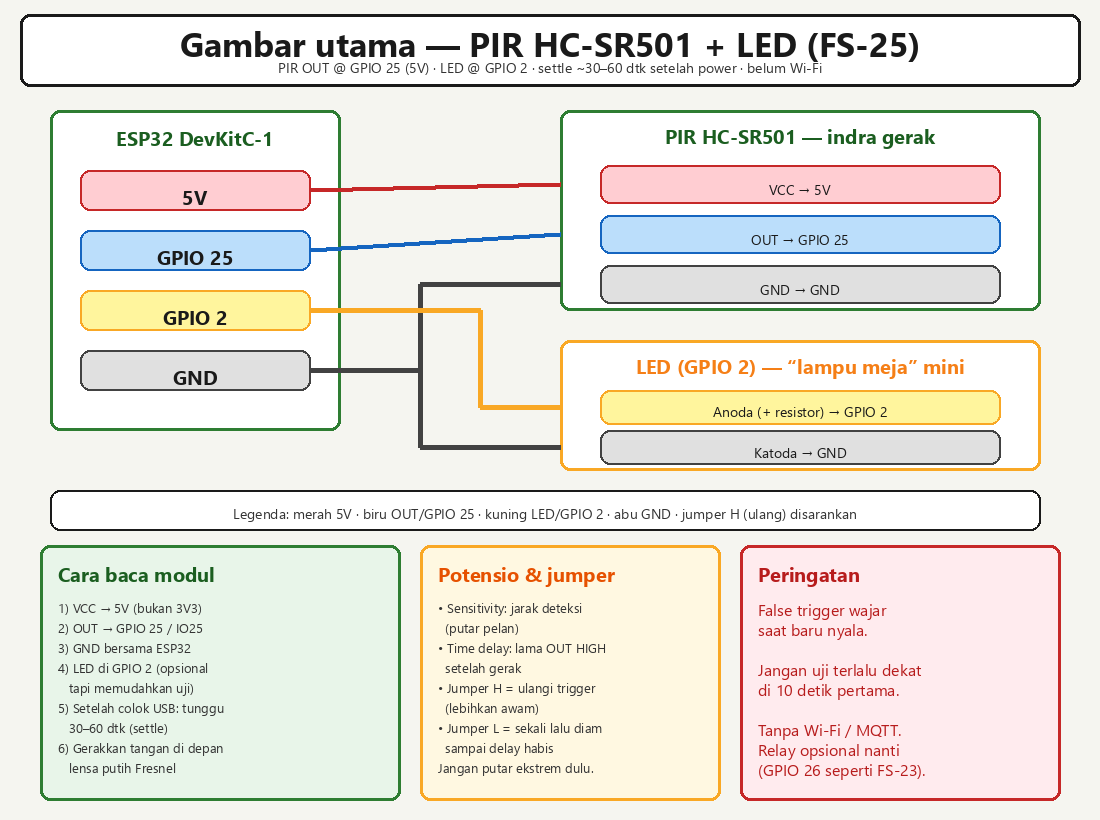
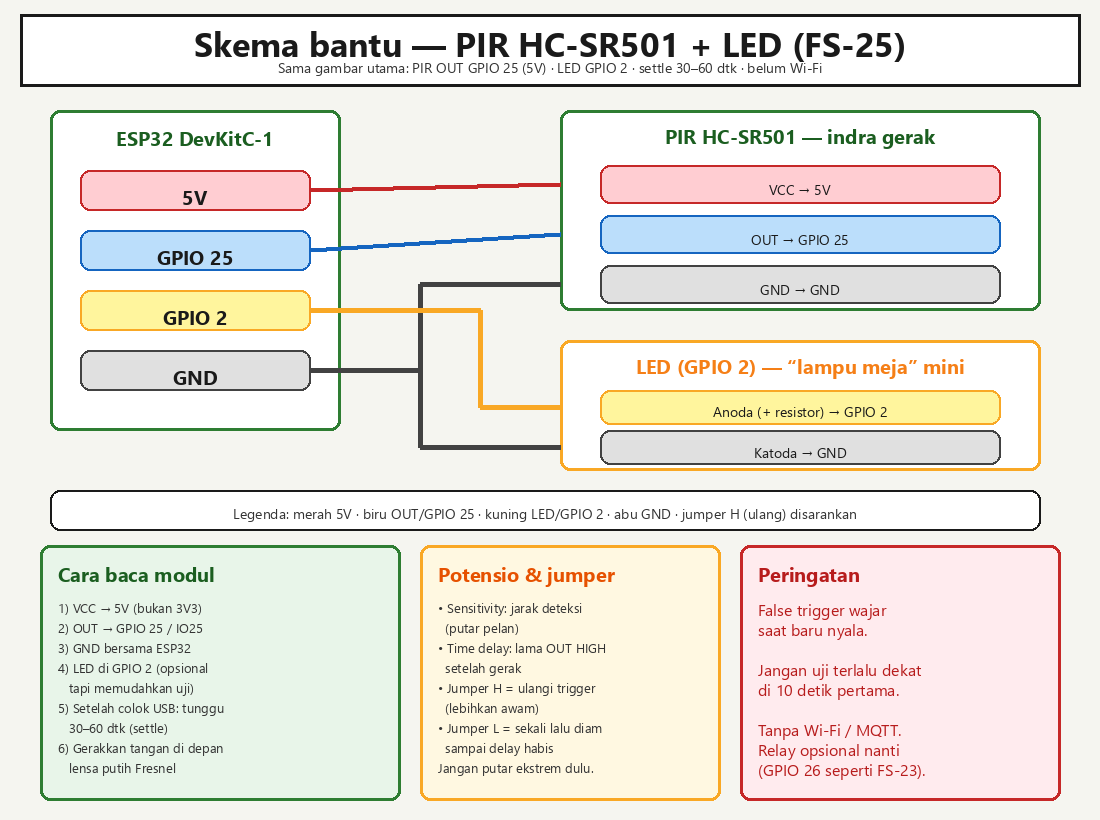
feat(fsiot): #95 gambar utama breadboard PIR dari rangkaian user
Promote user wiring photo to main figure; schematic becomes Skema bantu with matching captions and FTP allowlist.

Changed region(s): [[0.1545, 0.0305, 0.8345, 0.0915]]

diff --git a/database/seeders/Article95Seeder.php b/database/seeders/Article95Seeder.php
@@ -160,11 +160,11 @@ HTML;
     {
         return <<<'HTML'
 <figure style="margin:1.5rem 0;max-width:100%;background:#F5F5F0;border:2.5px solid #1a1a1a;border-radius:8px;padding:0.75rem 0.75rem 0.35rem">
-  <img src="/images/fsiot/fs25-pir-wiring.png" width="1100" height="820" alt="Gambar utama — wiring PIR GPIO 25 + LED GPIO 2" loading="eager" style="width:100%;height:auto;max-height:560px;object-fit:contain;border-radius:6px;background:#F5F5F0">
+  <img src="/images/fsiot/fs25-pir-breadboard.png" width="1374" height="766" alt="Gambar utama — rangkaian PIR GPIO 25 + LED GPIO 2 di breadboard" loading="eager" style="width:100%;height:auto;max-height:560px;object-fit:contain;border-radius:6px;background:#fff">
   <figcaption style="font-size:0.85rem;margin-top:0.5rem;color:#1a1a1a;">
-    <strong>Gambar utama — wiring PIR + LED.</strong> Merah: <strong>5V</strong> → VCC PIR · biru: <strong>GPIO 25</strong> → OUT · kuning: <strong>GPIO 2</strong> → LED · abu: <strong>GND</strong> bersama. LED onboard DevKit sering sudah di GPIO 2 — kalau menyala tanpa LED eksternal, itu normal.
-    <br><em>Tip:</em> setelah colok USB, tunggu <strong>30–60 detik</strong> sebelum menilai “false trigger”. Nomor kolom breadboard ≠ nomor GPIO.
-    <br>Sumber gambar: diagram berlabel buatan Koding Indonesia (FS-25).
+    <strong>Gambar utama — rangkaian PIR di breadboard.</strong> Merah: <strong>5V</strong> → VCC PIR · kuning/biru: <strong>OUT</strong> → <strong>IO25 / GPIO 25</strong> · oranye: <strong>IO2 / GPIO 2</strong> → anoda LED · hitam: <strong>GND</strong> bersama (katoda LED lewat resistor ke rail GND). Bentuk modul PIR bisa beda (lensa + kabel vs PCB 3 pin) — sambungan yang sama: VCC / OUT / GND.
+    <br><em>Tip:</em> nomor kolom breadboard ≠ nomor GPIO. Setelah colok USB, tunggu <strong>30–60 detik</strong> (settle) sebelum menilai false trigger.
+    <br>Sumber gambar: diagram rangkaian buatan Koding Indonesia (FS-25).
   </figcaption>
 </figure>
 HTML;
@@ -174,15 +174,42 @@ HTML;
     {
         return <<<'HTML'
 <figure style="margin:1.5rem 0;max-width:100%;background:#F5F5F0;border:2.5px solid #1a1a1a;border-radius:8px;padding:0.75rem 0.75rem 0.35rem">
-  <img src="/images/fsiot/fs25-pir-wiring.png" width="1100" height="820" alt="Main figure — PIR GPIO 25 + LED GPIO 2 wiring" loading="eager" style="width:100%;height:auto;max-height:560px;object-fit:contain;border-radius:6px;background:#F5F5F0">
+  <img src="/images/fsiot/fs25-pir-breadboard.png" width="1374" height="766" alt="Main figure — PIR GPIO 25 + LED GPIO 2 on a breadboard" loading="eager" style="width:100%;height:auto;max-height:560px;object-fit:contain;border-radius:6px;background:#fff">
   <figcaption style="font-size:0.85rem;margin-top:0.5rem;color:#1a1a1a;">
-    <strong>Main figure — PIR + LED wiring.</strong> Red: <strong>5V</strong> → PIR VCC · blue: <strong>GPIO 25</strong> → OUT · yellow: <strong>GPIO 2</strong> → LED · gray: shared <strong>GND</strong>. Many DevKits already have an onboard LED on GPIO 2 — if it lights without an external LED, that is normal.
-    <br><em>Tip:</em> after plugging USB in, wait <strong>30–60 seconds</strong> before judging “false triggers”. Breadboard column numbers ≠ GPIO numbers.
+    <strong>Main figure — PIR circuit on a breadboard.</strong> Red: <strong>5V</strong> → PIR VCC · yellow/blue: <strong>OUT</strong> → <strong>IO25 / GPIO 25</strong> · orange: <strong>IO2 / GPIO 2</strong> → LED anode · black: shared <strong>GND</strong> (LED cathode via resistor to the GND rail). PIR module shape can differ (dome+wires vs 3-pin PCB) — same three connections: VCC / OUT / GND.
+    <br><em>Tip:</em> breadboard column numbers ≠ GPIO numbers. After plugging USB in, wait <strong>30–60 seconds</strong> (settle) before judging false triggers.
+    <br>Image source: wiring diagram by Koding Indonesia (FS-25).
+  </figcaption>
+</figure>
+HTML;
+    }
+
+    private function schemaWiringFigureId(): string
+    {
+        return <<<'HTML'
+<figure style="margin:1.5rem 0;max-width:100%;background:#F5F5F0;border:2.5px solid #1a1a1a;border-radius:8px;padding:0.75rem 0.75rem 0.35rem">
+  <img src="/images/fsiot/fs25-pir-wiring.png" width="1100" height="820" alt="Skema bantu — ringkasan pin PIR GPIO 25 + LED GPIO 2" loading="eager" style="width:100%;height:auto;max-height:520px;object-fit:contain;border-radius:6px;background:#F5F5F0">
+  <figcaption style="font-size:0.85rem;margin-top:0.5rem;color:#1a1a1a;">
+    <strong>Skema bantu (ringkas).</strong> Pin sama gambar utama: PIR 5V/GPIO 25/GND · LED GPIO 2/GND · settle 30–60 dtk. Pakai ini jika kamu lebih nyaman membaca kotak pin daripada foto breadboard.
+    <br>Sumber gambar: diagram berlabel buatan Koding Indonesia (FS-25).
+  </figcaption>
+</figure>
+HTML;
+    }
+
+    private function schemaWiringFigureEn(): string
+    {
+        return <<<'HTML'
+<figure style="margin:1.5rem 0;max-width:100%;background:#F5F5F0;border:2.5px solid #1a1a1a;border-radius:8px;padding:0.75rem 0.75rem 0.35rem">
+  <img src="/images/fsiot/fs25-pir-wiring.png" width="1100" height="820" alt="Helper schematic — PIR GPIO 25 + LED GPIO 2 pin summary" loading="eager" style="width:100%;height:auto;max-height:520px;object-fit:contain;border-radius:6px;background:#F5F5F0">
+  <figcaption style="font-size:0.85rem;margin-top:0.5rem;color:#1a1a1a;">
+    <strong>Helper schematic.</strong> Same pins as the main figure: PIR 5V/GPIO 25/GND · LED GPIO 2/GND · settle 30–60 s. Use this if you prefer labeled pin boxes over the breadboard photo.
     <br>Image source: labeled diagram by Koding Indonesia (FS-25).
   </figcaption>
 </figure>
 HTML;
     }
+
 
     private function flowSvgId(): string
     {
@@ -292,6 +319,7 @@ HTML;
         $board = $this->boardFigureId();
         $kit = $this->kitPirFigureId();
         $main = $this->mainWiringFigureId();
+        $schema = $this->schemaWiringFigureId();
         $flow = $this->flowSvgId();
         $serial = $this->serialPanelSvgId();
 
@@ -329,6 +357,7 @@ HTML;
 
 {$kit}
 {$main}
+{$schema}
 
 <h2>Wiring (bahasa manusia)</h2>
 <p><strong>Blok PIR (indra):</strong></p>
@@ -420,6 +449,7 @@ HTML;
         $board = $this->boardFigureEn();
         $kit = $this->kitPirFigureEn();
         $main = $this->mainWiringFigureEn();
+        $schema = $this->schemaWiringFigureEn();
         $flow = $this->flowSvgEn();
         $serial = $this->serialPanelSvgEn();
 
@@ -457,6 +487,7 @@ HTML;
 
 {$kit}
 {$main}
+{$schema}
 
 <h2>Wiring (human language)</h2>
 <p><strong>PIR block (sense):</strong></p>

diff --git a/scripts/audit-article95.php b/scripts/audit-article95.php
@@ -39,7 +39,7 @@ check('published_at null', str_contains($src, "'published_at'") && str_contains(
 check('slug fullstack-iot-pir-gerak', str_contains($src, 'fullstack-iot-pir-gerak'));
 check('seed route exists', str_contains($routes, 'seed-article-95-draft'));
 check('deploy seed step', str_contains($deploy, 'seed-article-95-draft'));
-check('ftp allowlist fs25', str_contains($deploy, 'fs25-pir-wiring.png') && str_contains($deploy, 'kit-pir-hcsr501.jpg'));
+check('ftp allowlist fs25', str_contains($deploy, 'fs25-pir-wiring.png') && str_contains($deploy, 'fs25-pir-breadboard.png') && str_contains($deploy, 'kit-pir-hcsr501.jpg'));
 
 check('ID self-ref #95 (ini)', str_contains($id, '#95 (ini)'));
 check('EN self-ref #95 (this article)', str_contains($en, '#95 (this article)'));
@@ -52,11 +52,14 @@ check('friendly tip labels EN', str_contains($en, 'In short:') && str_contains($
 check('H2 parity', substr_count($id, '<h2') === substr_count($en, '<h2'));
 check('figures both >= 6', substr_count($id, '<figure') >= 6 && substr_count($en, '<figure') >= 6);
 
+check('breadboard PNG asset', str_contains($id, 'fs25-pir-breadboard.png') && is_file(__DIR__.'/../public/images/fsiot/fs25-pir-breadboard.png'));
 check('wiring PNG asset', str_contains($id, 'fs25-pir-wiring.png') && is_file(__DIR__.'/../public/images/fsiot/fs25-pir-wiring.png'));
 check('kit PIR asset', str_contains($id, 'kit-pir-hcsr501.jpg') && is_file(__DIR__.'/../public/images/fsiot/kit-pir-hcsr501.jpg'));
 check('cover asset', is_file(__DIR__.'/../public/images/fsiot/fs25-cover-pir.jpg'));
-check('Gambar utama label ID', str_contains($id, 'Gambar utama'));
-check('Main figure label EN', str_contains($en, 'Main figure'));
+check('Gambar utama label ID', str_contains($id, 'Gambar utama') && str_contains($id, 'fs25-pir-breadboard.png'));
+check('Skema bantu label ID', str_contains($id, 'Skema bantu') && str_contains($id, 'fs25-pir-wiring.png'));
+check('Main figure label EN', str_contains($en, 'Main figure') && str_contains($en, 'fs25-pir-breadboard.png'));
+check('Helper schematic label EN', str_contains($en, 'Helper schematic') && str_contains($en, 'fs25-pir-wiring.png'));
 check('IDE caption warns AnalogReadSerial', str_contains($id, 'AnalogReadSerial') && str_contains($en, 'AnalogReadSerial'));
 check('Serial panel SVG 115200', str_contains($id, 'Baud: 115200'));
 check('open IDE first wording', str_contains($id, 'Buka Arduino IDE dulu') && str_contains($en, 'Open Arduino IDE first'));

diff --git a/scripts/wire-article95-infra.py b/scripts/wire-article95-infra.py
@@ -82,8 +82,10 @@ if "seedArticle95Draft" not in t:
             'Cara menguji perintah di atas',
             'settle',
             'kit-pir-hcsr501.jpg',
+            'fs25-pir-breadboard.png',
             'fs25-pir-wiring.png',
             'Gambar utama',
+            'Skema bantu',
             'AnalogReadSerial',
             'Baud: 115200',
             'Buka Arduino IDE dulu',
@@ -118,6 +120,8 @@ if "seedArticle95Draft" not in t:
             'Common mistakes',
             'How to test the commands above',
             'Main figure',
+            'Helper schematic',
+            'fs25-pir-breadboard.png',
             'fs25-pir-wiring.png',
             'AnalogReadSerial',
             'Baud: 115200',
@@ -247,7 +251,7 @@ if "fs25-pir-wiring.png" not in t:
     needle = "images/fsiot/fs24-otomasi-wiring.png images/fsiot/fs24-otomasi-breadboard.png images/fsiot/fs24-cover-otomasi.jpg \\"
     repl = needle.replace(
         "fs24-cover-otomasi.jpg \\",
-        "fs24-cover-otomasi.jpg images/fsiot/kit-pir-hcsr501.jpg images/fsiot/fs25-pir-wiring.png images/fsiot/fs25-cover-pir.jpg \\",
+        "fs24-cover-otomasi.jpg images/fsiot/kit-pir-hcsr501.jpg images/fsiot/fs25-pir-wiring.png images/fsiot/fs25-pir-breadboard.png images/fsiot/fs25-cover-pir.jpg \\",
     )
     if needle not in t:
         raise SystemExit("ftp allowlist needle missing")

diff --git a/app/Http/Controllers/DeployController.php b/app/Http/Controllers/DeployController.php
@@ -8709,8 +8709,10 @@ class DeployController extends Controller
             'Cara menguji perintah di atas',
             'settle',
             'kit-pir-hcsr501.jpg',
+            'fs25-pir-breadboard.png',
             'fs25-pir-wiring.png',
             'Gambar utama',
+            'Skema bantu',
             'AnalogReadSerial',
             'Baud: 115200',
             'Buka Arduino IDE dulu',
@@ -8745,6 +8747,8 @@ class DeployController extends Controller
             'Common mistakes',
             'How to test the commands above',
             'Main figure',
+            'Helper schematic',
+            'fs25-pir-breadboard.png',
             'fs25-pir-wiring.png',
             'AnalogReadSerial',
             'Baud: 115200',

diff --git a/scripts/gen-fs25-assets.py b/scripts/gen-fs25-assets.py
@@ -68,12 +68,12 @@ C_GND = "#424242"
 C_LED = "#F9A825"
 
 box(d, (20, 14, W - 20, 86), "#FFFFFF", "#1a1a1a", 3)
-center(d, W // 2, 36, "Gambar utama — PIR HC-SR501 + LED (FS-25)", FT)
+center(d, W // 2, 36, "Skema bantu — PIR HC-SR501 + LED (FS-25)", FT)
 center(
     d,
     W // 2,
     64,
-    "PIR OUT @ GPIO 25 (5V) · LED @ GPIO 2 · settle ~30–60 dtk setelah power · belum Wi-Fi",
+    "Sama gambar utama: PIR OUT GPIO 25 (5V) · LED GPIO 2 · settle 30–60 dtk · belum Wi-Fi",
     FS,
     "#333",
 )
